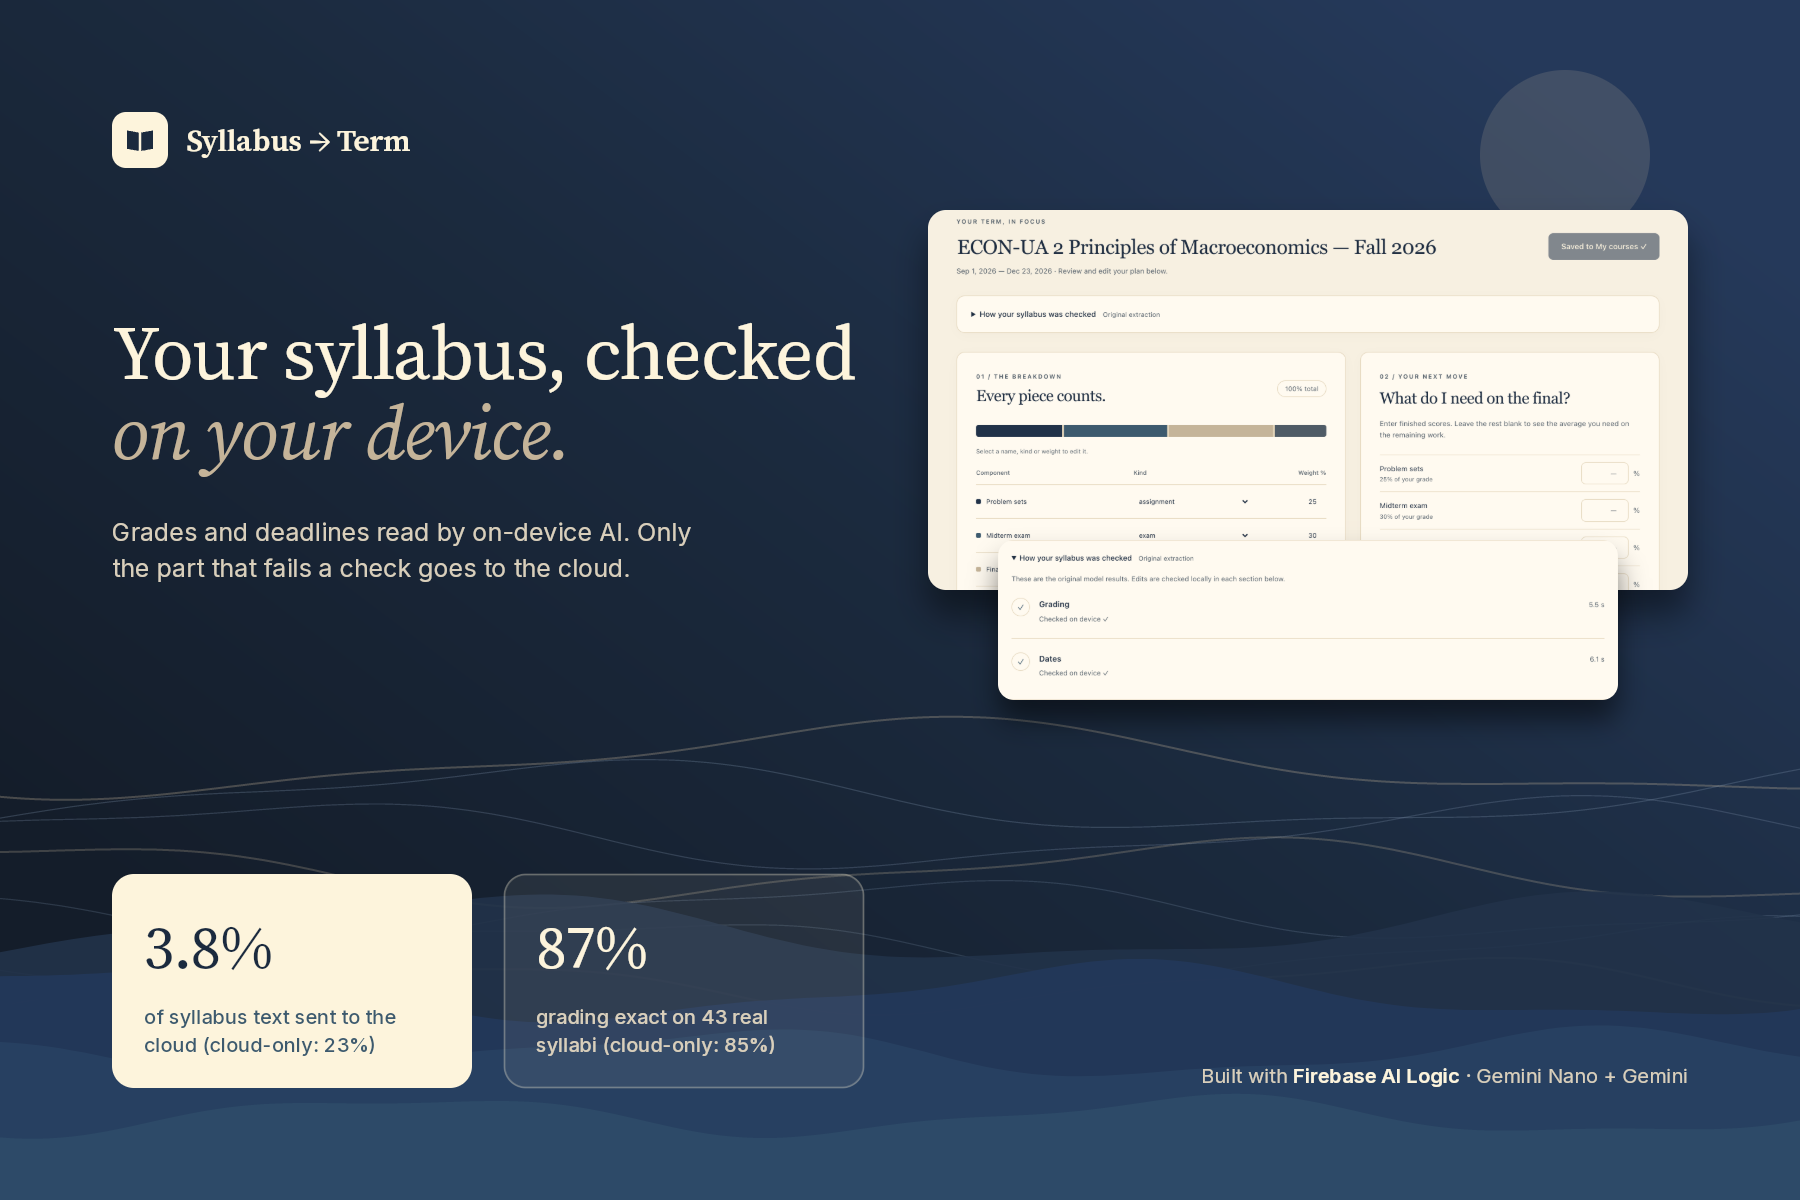
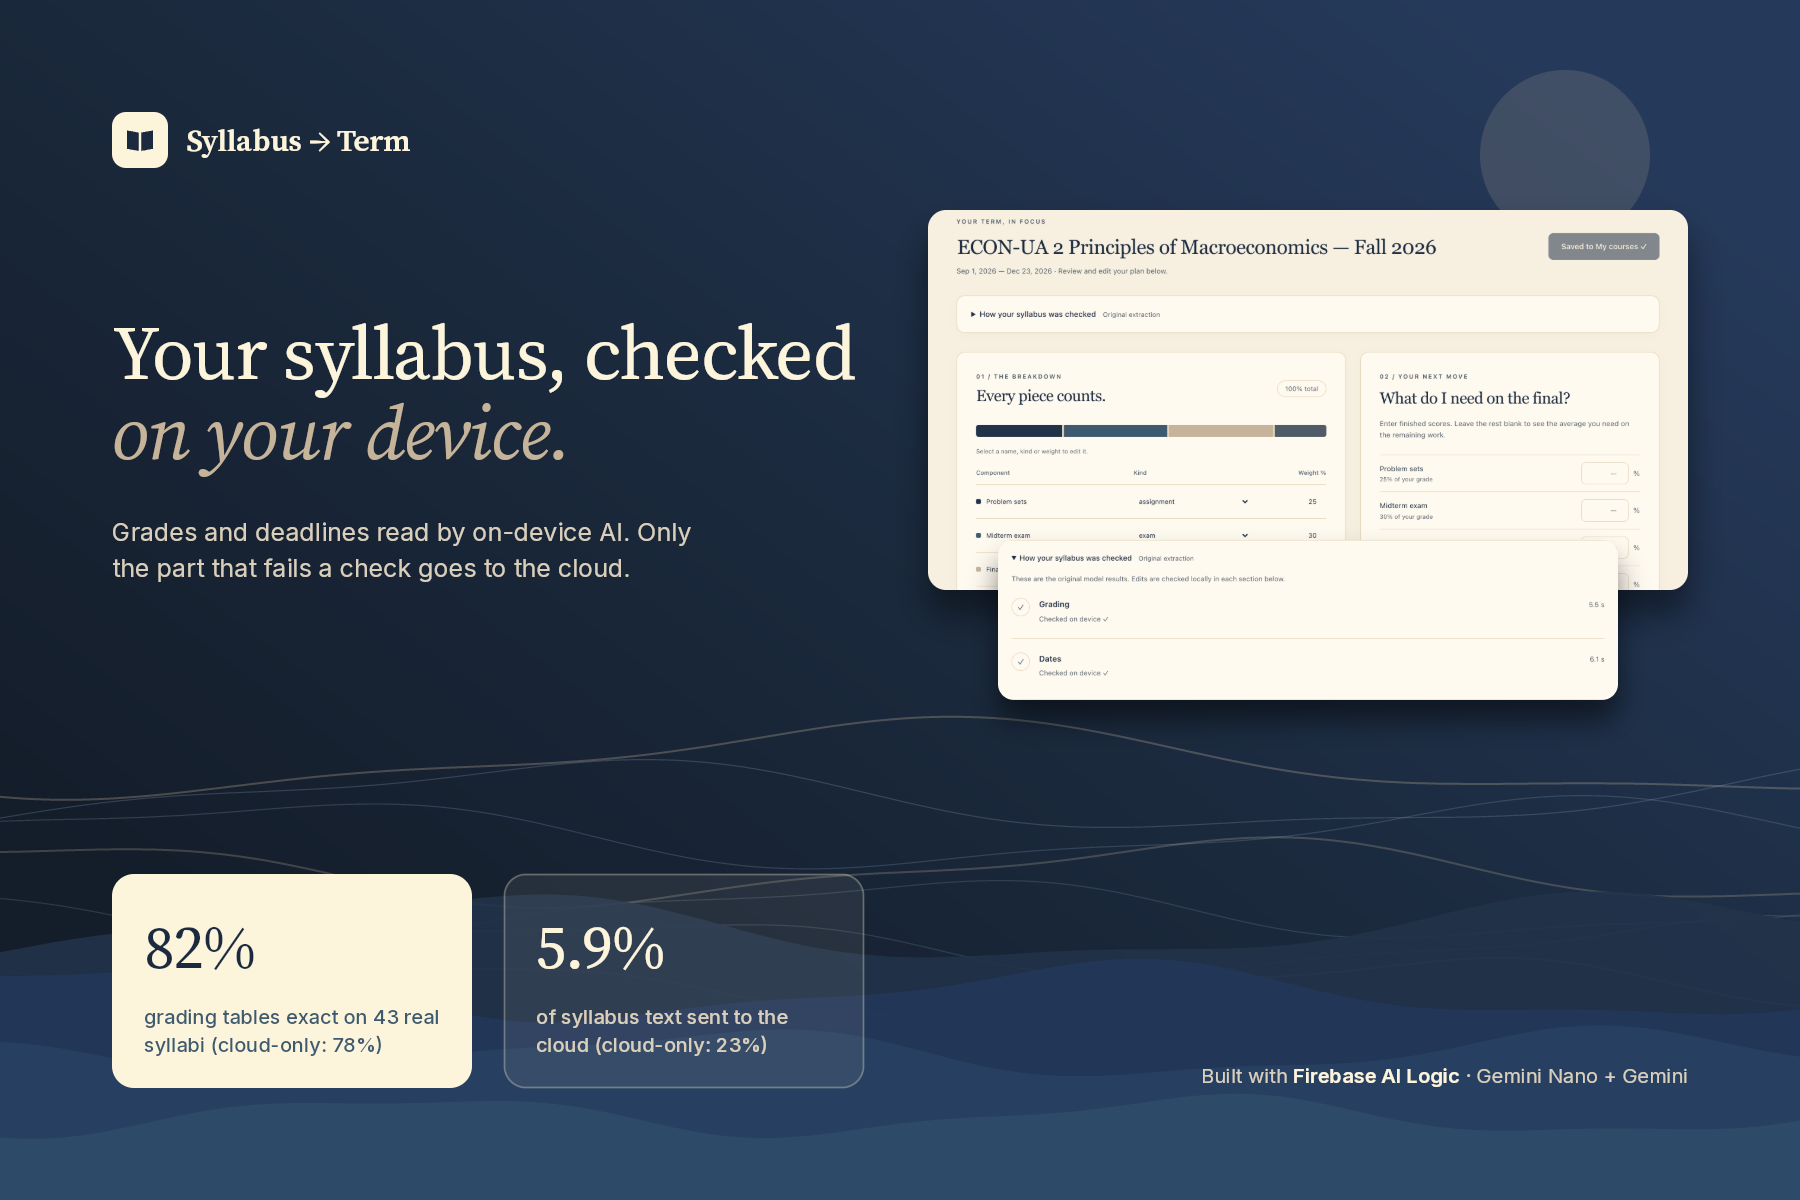
Cover: strict-scorer numbers

diff --git a/design/DESIGN.md b/design/DESIGN.md
@@ -13,4 +13,4 @@ Fonts: serif headings (Georgia-class) + system sans body. 8-px spacing grid.
 
 ## Cover (approved 2026-11-22)
 Direction approved by the owner: dark navy sea with code-generated wave line art (palette A, no image of the painting), real UI screenshots (result page + "How your syllabus was checked"), two stat cards from the latest eval. Source `design/cover/cover.html`; render with Playwright headless at 1200×800 @2x → `cover.png` (2400×1600, 3:2). Update the numbers when the eval changes.
-CoDesign version (2026-11-22, per global rule 0): design "Syllabus → Term — Devpost cover", revision 7e0d4061ddf0 (stat 3.8% = mean of eval v5+v6), judge PASS (all 8 axes ≥ 8). Export `design/cover/cover-codesign.png` (1800×1200). Fonts Source Serif 4 + Inter; generated swells are parametric vector paths. Supersedes the hand-written `cover.html`.
+CoDesign version (2026-11-22, per global rule 0): design "Syllabus → Term — Devpost cover", revision ab3180a3461c (11-25: stats 82% / 5.9% = strict scorer, mean of eval v9+v10; was 7e0d4061ddf0), judge PASS (all 8 axes ≥ 8). Export `design/cover/cover-codesign.png` (1800×1200). Fonts Source Serif 4 + Inter; generated swells are parametric vector paths. Supersedes the hand-written `cover.html`.
